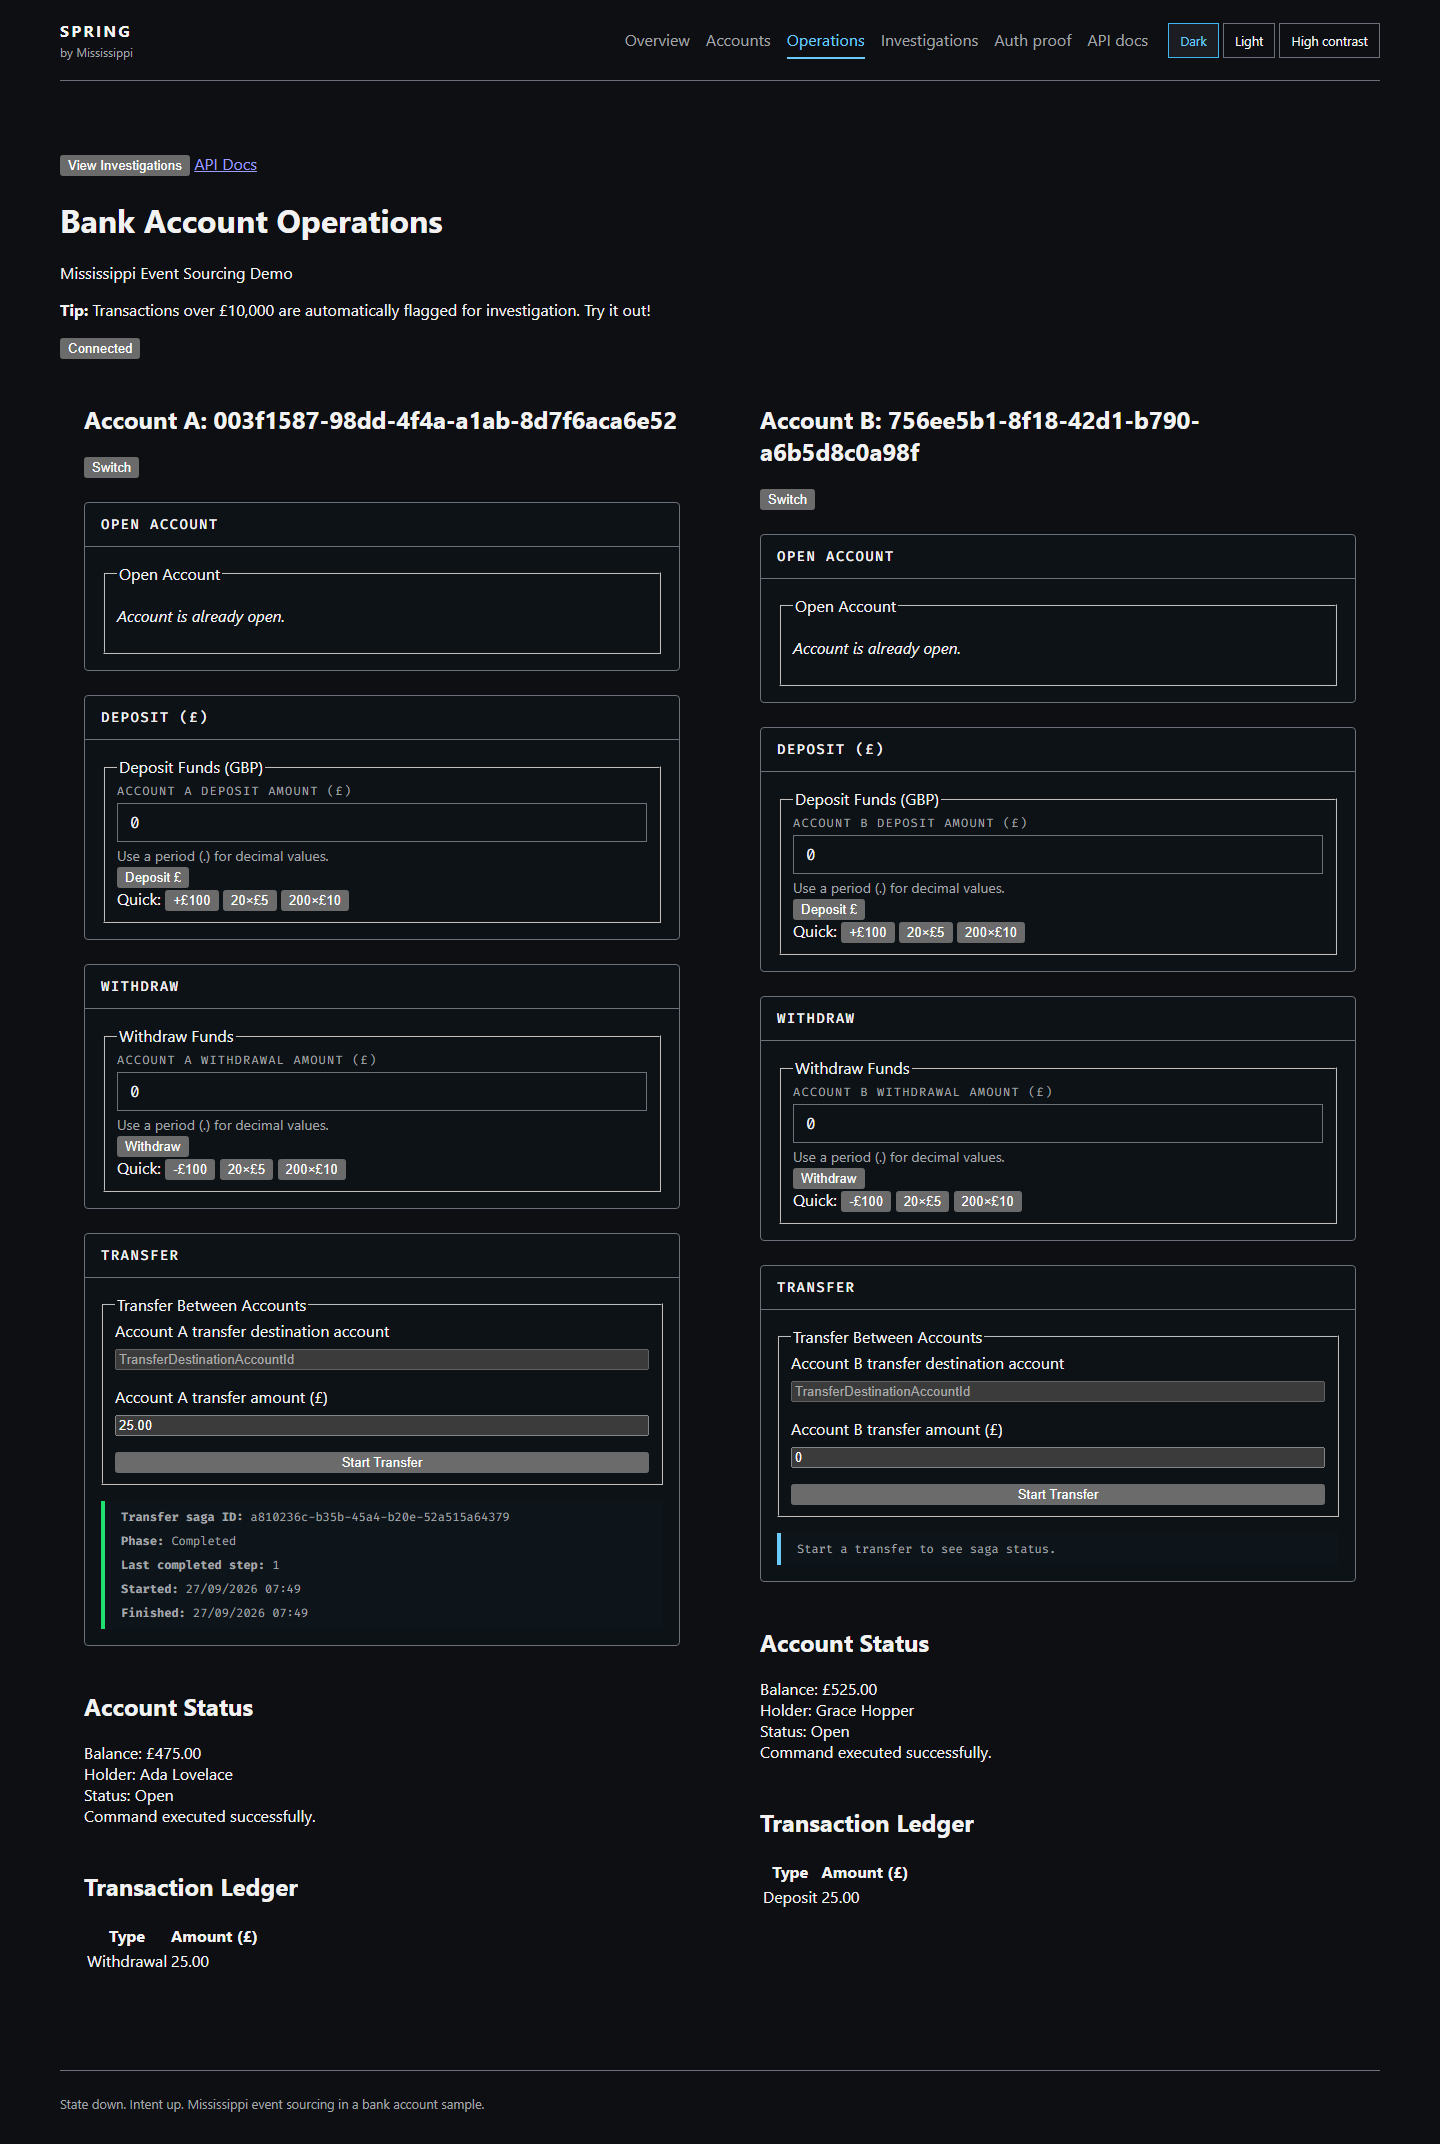
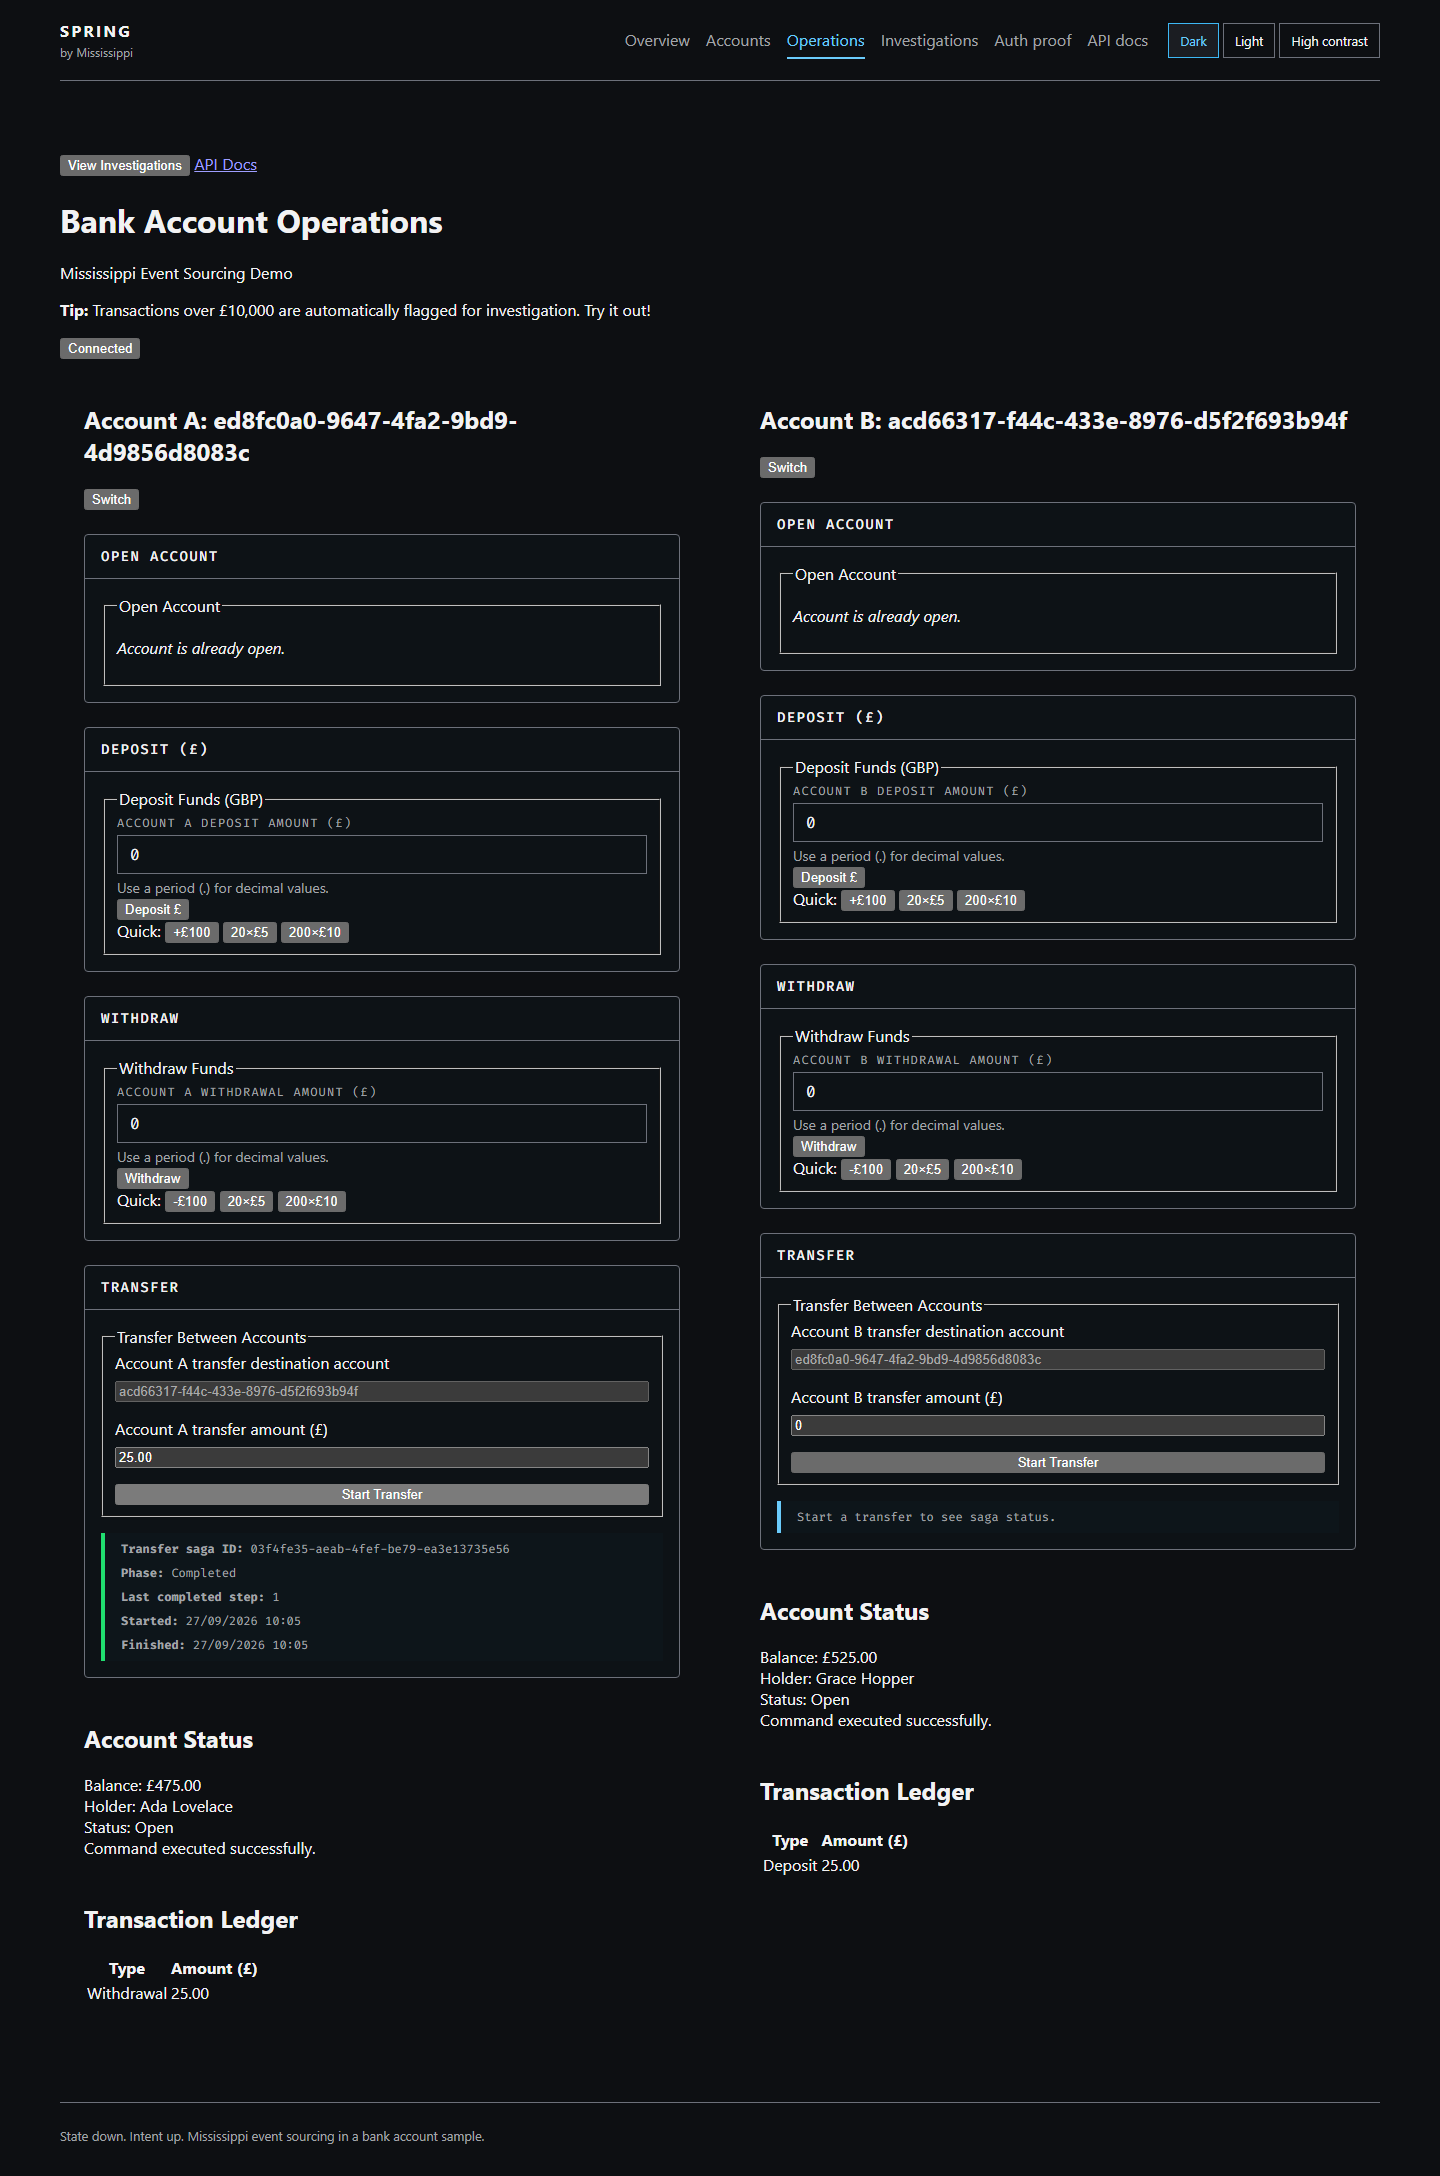
Bind Spring transfer destinations to account IDs +semver: fix

diff --git a/samples/Spring/Spring.L3Tests/Pages/OperationsPage.cs b/samples/Spring/Spring.L3Tests/Pages/OperationsPage.cs
@@ -182,12 +182,21 @@ public sealed partial class OperationsPage
             .FillAsync(amount.ToString(CultureInfo.InvariantCulture));
 
     /// <summary>
-    ///     Gets the displayed account header from the first account panel.
+    ///     Gets the displayed account header from the selected account panel.
     /// </summary>
+    /// <param name="account">The account slot, A or B.</param>
     /// <returns>The account ID text, or null if not present.</returns>
-    public async Task<string?> GetAccountHeaderAsync()
+    public async Task<string?> GetAccountHeaderAsync(
+        string account = "A"
+    )
     {
-        ILocator accountHeader = AccountAPanel.Locator("#account-a-panel-heading");
+        string headingId = account switch
+        {
+            "A" => "#account-a-panel-heading",
+            "B" => "#account-b-panel-heading",
+            var _ => throw new ArgumentOutOfRangeException(nameof(account), account, "Account slot must be A or B."),
+        };
+        ILocator accountHeader = GetAccountPanel(account).Locator(headingId);
         return await accountHeader.TextContentAsync();
     }
 
@@ -247,6 +256,23 @@ public sealed partial class OperationsPage
     /// </summary>
     /// <returns>The page title.</returns>
     public async Task<string?> GetTitleAsync() => await page.Locator("h1").TextContentAsync();
+
+    /// <summary>
+    ///     Gets the value rendered in the selected account panel's read-only transfer destination.
+    /// </summary>
+    /// <param name="account">The account slot, A or B.</param>
+    /// <returns>The destination account ID shown in the input.</returns>
+    public async Task<string> GetTransferDestinationValueAsync(
+        string account = "A"
+    ) =>
+        await GetAccountPanel(account)
+            .GetByLabel(
+                $"Account {account} transfer destination account",
+                new()
+                {
+                    Exact = true,
+                })
+            .InputValueAsync();
 
     /// <summary>
     ///     Gets the accessible transfer status strip for the selected account.

diff --git a/samples/Spring/Spring.L3Tests/BankAccountE2ETests.cs b/samples/Spring/Spring.L3Tests/BankAccountE2ETests.cs
@@ -327,6 +327,16 @@ public sealed class BankAccountE2ETests
             OperationsPage operationsPage = await BankAccountScenario.PrepareAsync(fixture, page, ProjectionTimeout);
             await operationsPage.WaitForBalanceAsync(ProjectionTimeout);
             await operationsPage.WaitForBalanceAsync(ProjectionTimeout, "B");
+            string? accountAHeader = await operationsPage.GetAccountHeaderAsync();
+            string? accountBHeader = await operationsPage.GetAccountHeaderAsync("B");
+            Assert.NotNull(accountAHeader);
+            Assert.NotNull(accountBHeader);
+            Assert.StartsWith("Account A: ", accountAHeader, StringComparison.Ordinal);
+            Assert.StartsWith("Account B: ", accountBHeader, StringComparison.Ordinal);
+            string accountAId = accountAHeader["Account A: ".Length..];
+            string accountBId = accountBHeader["Account B: ".Length..];
+            Assert.Equal(accountBId, await operationsPage.GetTransferDestinationValueAsync());
+            Assert.Equal(accountAId, await operationsPage.GetTransferDestinationValueAsync("B"));
             await operationsPage.EnterTransferAmountAsync(25.00m);
             await operationsPage.ClickStartTransferAsync();
             await operationsPage.WaitForTransferPhaseAsync("Completed", ProjectionTimeout);

diff --git a/samples/Spring/Spring.Client.L0Tests/Components/Organisms/AccountOperationsSectionTests.cs b/samples/Spring/Spring.Client.L0Tests/Components/Organisms/AccountOperationsSectionTests.cs
@@ -125,6 +125,26 @@ public sealed class AccountOperationsSectionTests : BunitContext
     }
 
     /// <summary>
+    ///     A transfer destination displays its supplied account ID and remains read-only.
+    /// </summary>
+    [Fact]
+    public void TransferDestinationShowsSuppliedAccountIdAndRemainsReadOnly()
+    {
+        using IRenderedComponent<AccountOperationsSection> cut = Render<AccountOperationsSection>(p => p
+            .Add(c => c.PanelLabel, "Account A")
+            .Add(c => c.InputIdPrefix, "account-a")
+            .Add(c => c.SelectedEntityId, "account-a-id")
+            .Add(c => c.IsAccountOpen, true)
+            .Add(c => c.IsExecutingOrLoading, false)
+            .Add(c => c.TransferDestinationAccountId, "account-b-id")
+            .Add(c => c.IsTransferDestinationReadOnly, true));
+        IElement destination = cut.Find("#account-a-transfer-destination-input");
+        Assert.Equal("account-b-id", destination.GetAttribute("value"));
+        Assert.True(destination.HasAttribute("readonly"));
+        Assert.True(destination.HasAttribute("disabled"));
+    }
+
+    /// <summary>
     ///     Every mapped saga phase is presented with its supported Refraction state.
     /// </summary>
     /// <param name="phase">The projected saga phase.</param>
